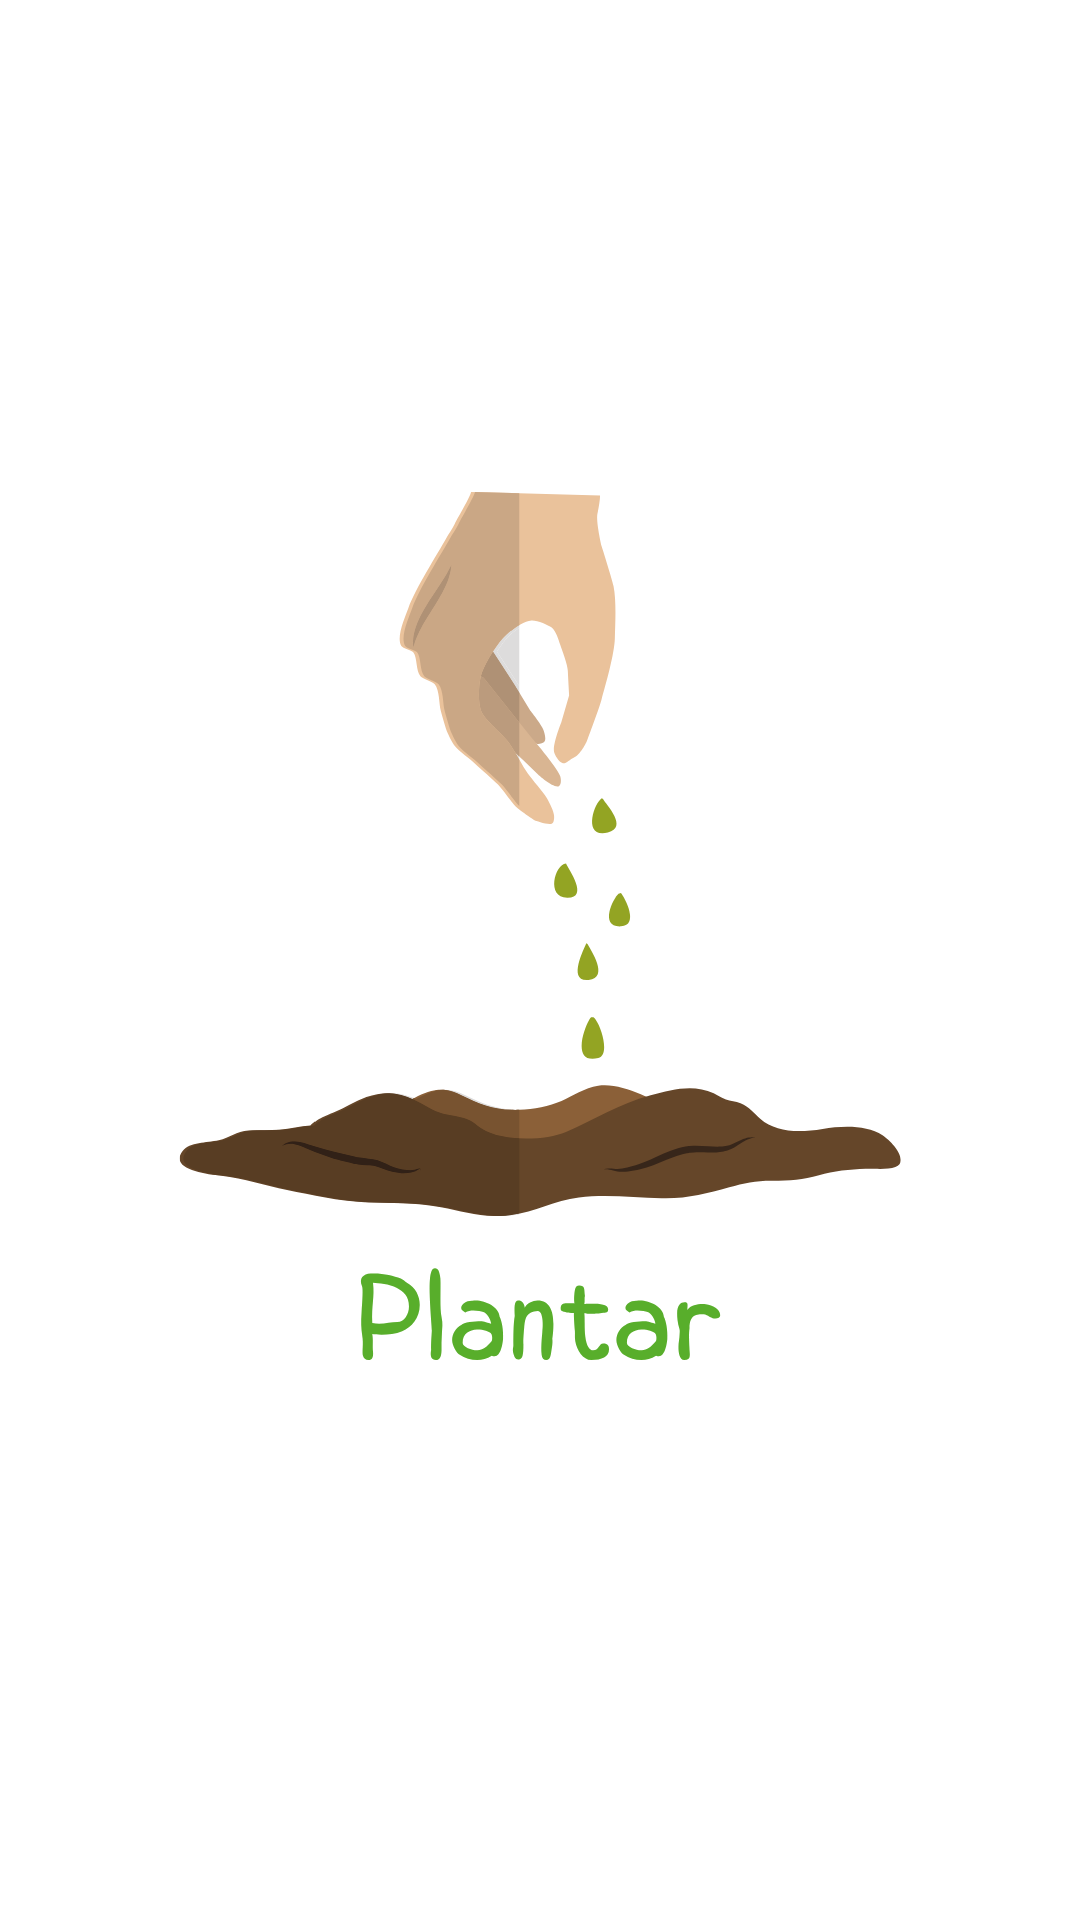
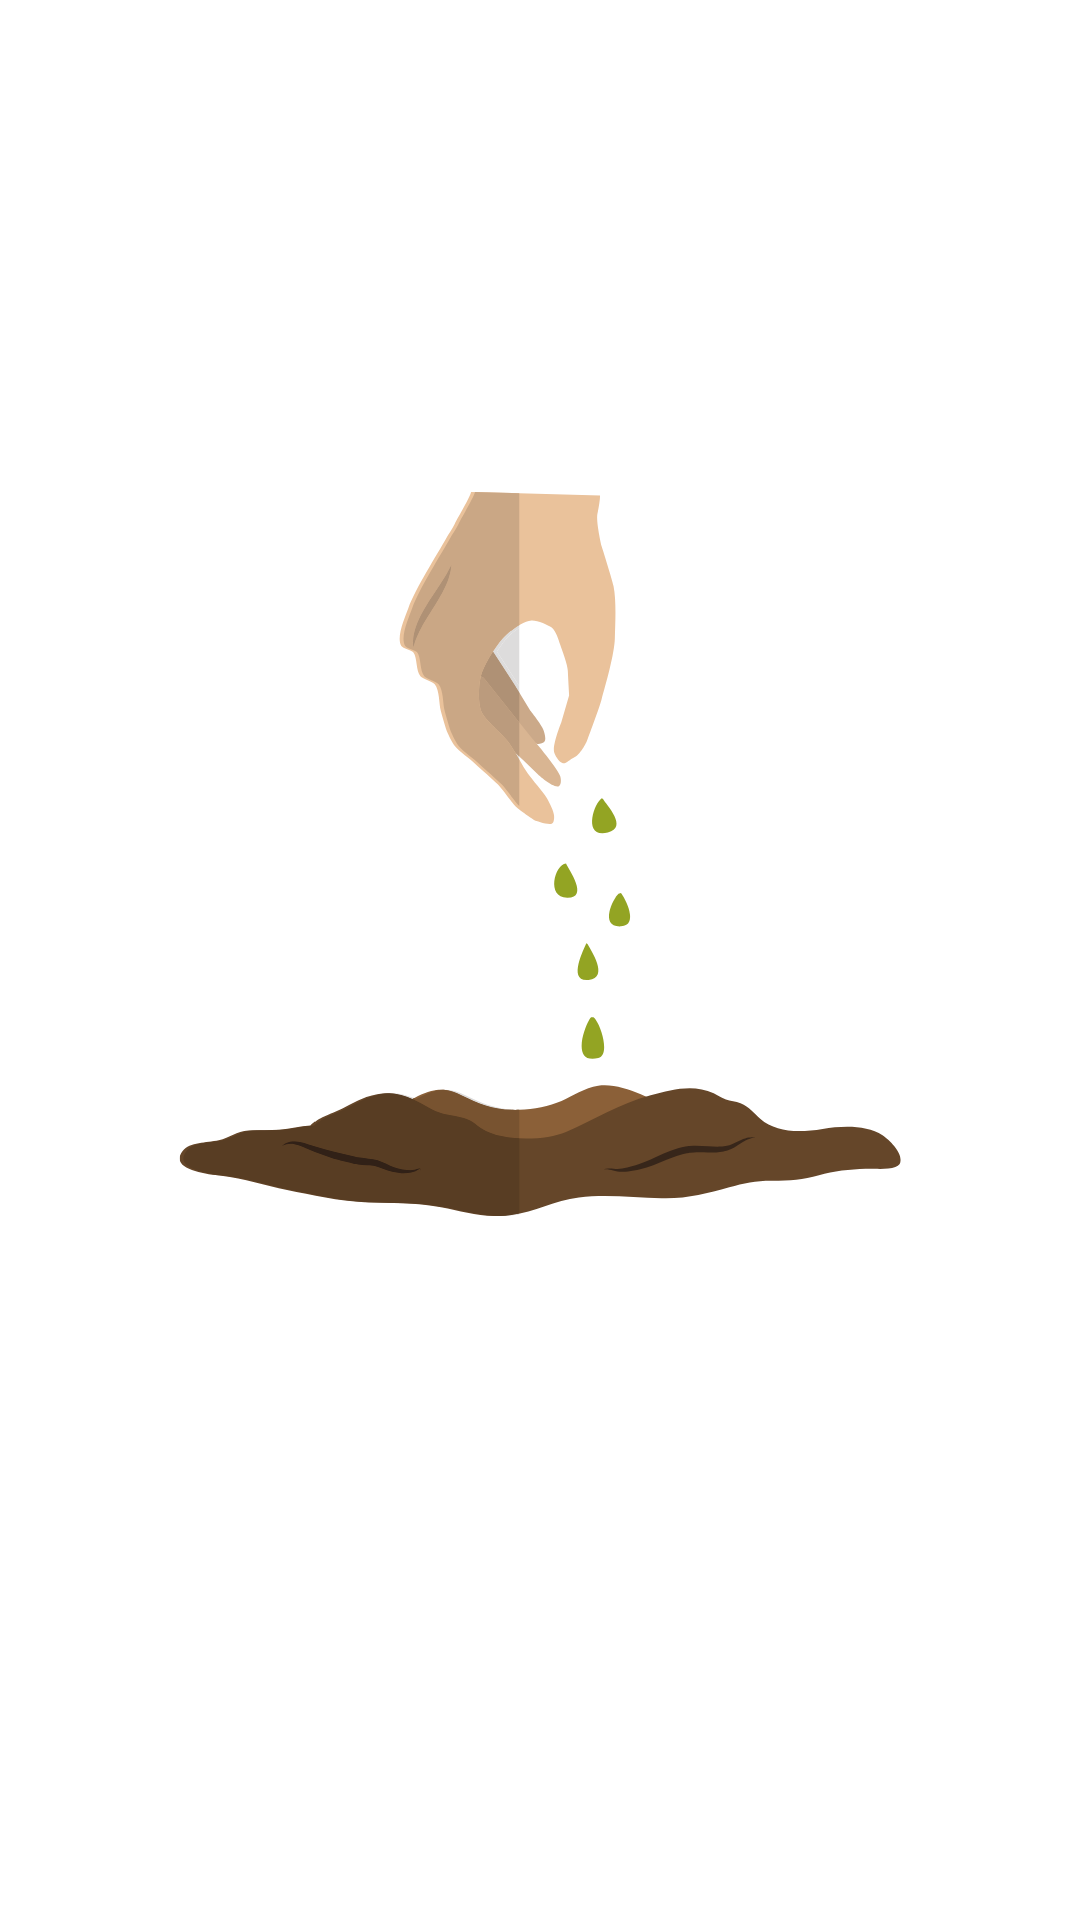
tela home com botoes regar plantar certos

Changed region(s): [[0.3361, 0.6562, 0.6722, 0.7188]]

diff --git a/lib/view/tela_home.dart b/lib/view/tela_home.dart
@@ -1,43 +1,77 @@
 import 'package:flutter/material.dart';
+import 'package:ddm_projeto_final/widgets/botao_acao.dart';
 
 class TelaHome extends StatelessWidget {
+  const TelaHome({Key? key}) : super(key: key);
+
   @override
   Widget build(BuildContext context) {
-    return Container(
-      width: double.infinity,
-      height: double.infinity,
+    final tamanhoTela = MediaQuery.of(context).size;
 
-      decoration: BoxDecoration(
+    return Container(
+      width: tamanhoTela.width,
+      height: tamanhoTela.height,
+
+      decoration: const BoxDecoration(
         image: DecorationImage(
           image: AssetImage('assets/images/paginainicial-fundo.png'),
           fit: BoxFit.cover,
         ),
       ),
-      child: Padding(
-        padding: const EdgeInsets.only(
-          top: 600,
-          bottom: 100,
-          left: 20,
-          right: 180,
-        ),
-        child: TextButton(
-          onPressed: () {},
-          style: TextButton.styleFrom(
-            backgroundBuilder:
-                (BuildContext context, Set<WidgetState> states, Widget? child) {
-                  return Ink(
-                    decoration: const BoxDecoration(
-                      image: DecorationImage(
-                        image: AssetImage('assets/images/plantar.png'),
-                        fit: .fitWidth,
-                      ),
-                    ),
-                    child: child,
-                  );
+
+      child: SafeArea(
+        child: Stack(
+          children: [
+            Positioned(
+              top: tamanhoTela.height * 0.42,
+              right: 30,
+              child: BotaoAcao(
+                imagem: 'assets/images/regar.png',
+                label: 'Regar',
+                cor: Colors.lightBlue,
+                tamanho: 220,
+                onTap: () {
+                  //implementar
                 },
-          ),
-          child: const Text(''),
+              ),
+            ),
+            Positioned(
+              top: tamanhoTela.height * 0.62,
+              left: 30,
+              child: BotaoAcao(
+                imagem: 'assets/images/plantar.png',
+                label: 'Plantar',
+                cor: Colors.lightGreen,
+                onTap: () {
+                  //implementar
+                },
+              ),
+            ),
+          ],
         ),
+        // padding: const EdgeInsets.only(
+        //   top: 600,
+        //   bottom: 100,
+        //   left: 20,
+        //   right: 180,
+        // ),
+        // child: TextButton(
+        //   onPressed: () {},
+        //   style: TextButton.styleFrom(
+        //     backgroundBuilder:
+        //         (BuildContext context, Set<WidgetState> states, Widget? child) {
+        //           return Ink(
+        //             decoration: const BoxDecoration(
+        //               image: DecorationImage(
+        //                 image: AssetImage('assets/images/plantar.png'),
+        //                 fit: BoxFit.fitWidth,
+        //               ),
+        //             ),
+        //             child: child,
+        //           );
+        //         },
+        //   ),
+        //   child: const Text(''),
       ),
     );
   }

diff --git a/lib/widgets/botao_acao.dart b/lib/widgets/botao_acao.dart
@@ -1,0 +1,69 @@
+import 'package:flutter/material.dart';
+import 'package:ddm_projeto_final/util/fontes.dart';
+import 'package:dotted_border/dotted_border.dart';
+
+class BotaoAcao extends StatelessWidget {
+  final String imagem;
+  final String label;
+  final Color cor;
+  final VoidCallback onTap;
+  final double tamanho;
+
+  const BotaoAcao({
+    Key? key,
+    required this.imagem,
+    required this.label,
+    this.cor = Colors.white,
+    required this.onTap,
+    this.tamanho = 175,
+  }) : super(key: key);
+
+  @override
+  Widget build(BuildContext context) {
+    return GestureDetector(
+      onTap: onTap,
+      child: DottedBorder(
+        options: CircularDottedBorderOptions(
+          color: cor,
+          strokeWidth: 1.3,
+          dashPattern: const [6, 5],
+          padding: const EdgeInsets.all(0.1),
+        ),
+        child: Container(
+          width: tamanho,
+          height: tamanho,
+          decoration: BoxDecoration(
+            shape: BoxShape.circle,
+            // border: Border.all(color: cor, width: 2, style: BorderStyle.solid),
+            image: DecorationImage(
+              image: AssetImage(imagem),
+              fit: BoxFit.cover,
+            ),
+          ),
+          child: Align(
+            alignment: Alignment.bottomCenter,
+            child: Padding(
+              padding: const EdgeInsets.only(bottom: 12),
+              child: Text(
+                label,
+                style: TextStyle(
+                  fontFamily: AppFonts.childos,
+                  color: cor,
+                  fontWeight: FontWeight.w600,
+                  fontSize: 16,
+                ),
+              ),
+            ),
+          ),
+          // const SizedBox(height: 6),
+          // Text(
+          //   label,
+          //   style: const TextStyle(
+          //     color: Colors.blueGrey,
+          //     fontWeight: FontWeight.w600,
+          //   ),
+        ),
+      ),
+    );
+  }
+}
